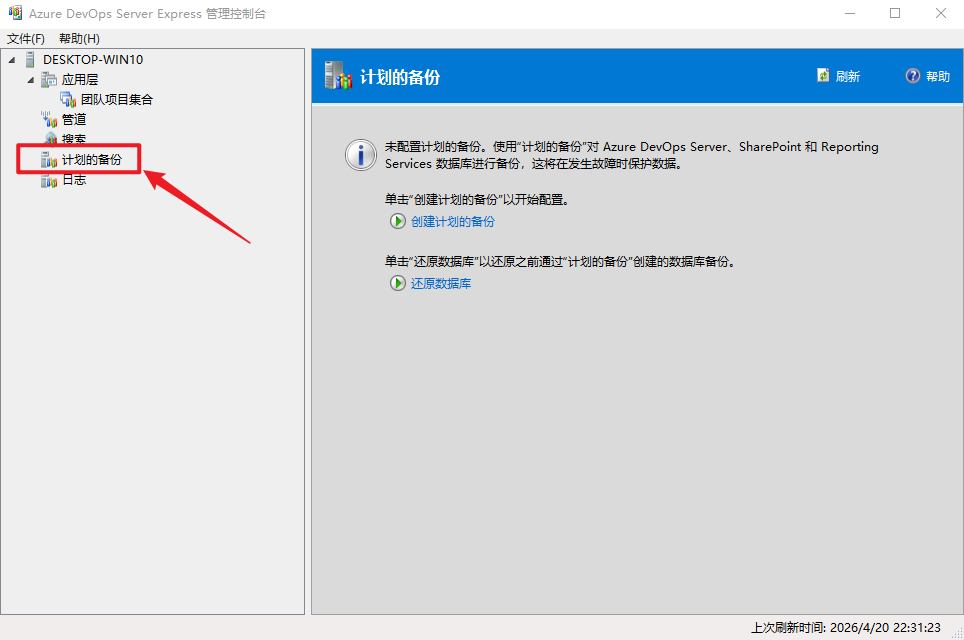
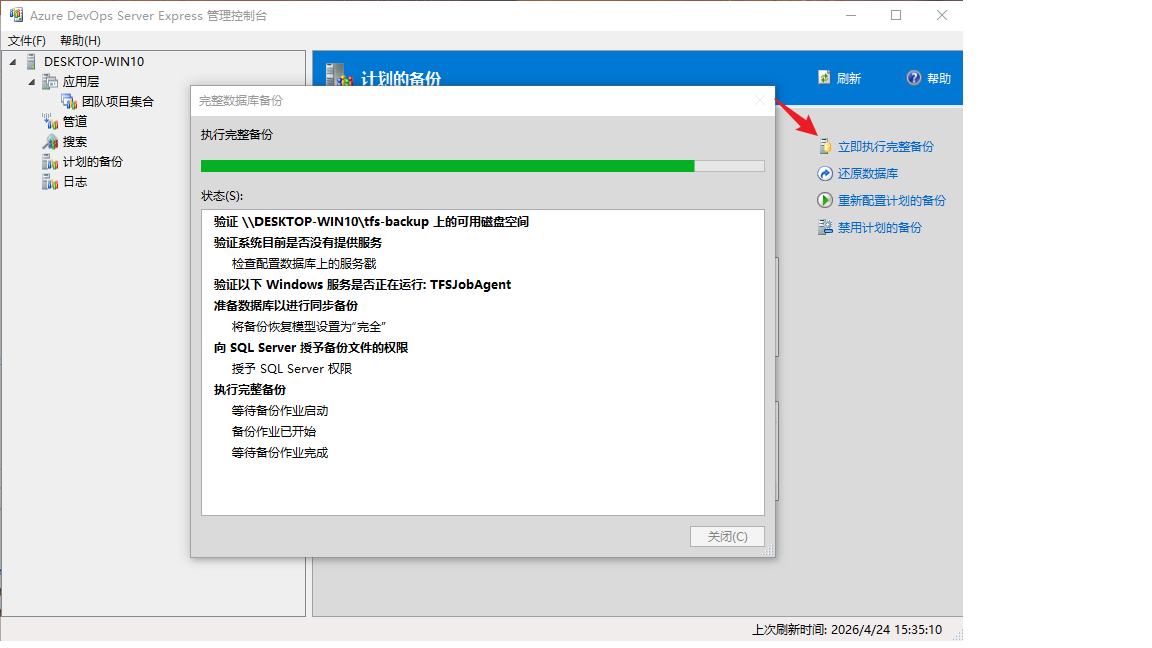
Squashed 'devops-migration/' changes from 8423ca4..903cff9
903cff9 Enhance Azure DevOps Server migration documentation with detailed steps and scripts; add supporting images for clarity.

git-subtree-dir: devops-migration
git-subtree-split: 903cff93f00faa4e9fa2267ba0c6909ab0502974

diff --git a/azure-devops-server-migration.md b/azure-devops-server-migration.md
@@ -4,24 +4,65 @@
 
 ### 0. 迁移前准备
 
-1. 使用**专用迁移管理员账号**登录（不要使用将被迁移的账号）。
+1. 使用**专用迁移管理员账号**登录（不要使用“将被迁移的账号”）。
 2. 确认该账号具备以下权限：
-	- Azure DevOps Server：Team Foundation Administrators、Admin Console Users
-	- SQL Server：`sysadmin`
-	- 服务器本地：Administrators
+	- Azure DevOps Server：`Team Foundation Administrators`（server-level）、Admin Console Users
+	![devops-admin](./images/devops-admin.png)
+	- SQL Server：`sysadmin`（server-level）
+	![db-admin](./images/db-server-admin.png)
+	- 服务器本地（AT）：`Administrators`（lusrmgr.msc -> 本地用户和组/Administrators）
+	![local-admin](./images/local-admin.png)
+
 3. 梳理身份映射表（建议提前做成表格）：
 	- 旧域账号 -> 新域账号
 	- 服务账号（AT、Reporting、Proxy）
 	- 同名可批量迁移账号、异名需单独迁移账号（本次环境不存在异名账号）
     
-进入到 AT 的安装目录，%ProgramFiles%/Azure DevOps Server 2022/Tools（实际可从 administration console 的目录查看），以管理员方式执行以下命令：
-```bat
-TFSConfig Identities
-```
-![tfs-config](./images/TfsConfig-Identities.png)
+	进入到 AT 的安装目录，%ProgramFiles%/Azure DevOps Server 2022/Tools（实际可从 administration console 的文件目录查看），以管理员方式执行以下命令：
+	```bat
+	TFSConfig Identities
+	```
+	![tfs-config](./images/TfsConfig-Identities.png)
 
-4. 将“需要迁移”的账号从应用层服务器本地 Administrators 组中移除，避免自动注入导致冲突。（注意：若有多个 AT，则需在每个实例上操作）
-5. 检查输出中是否存在目标域同名/冲突身份，提前处理冲突后再继续。
+	以下是将输出直接导出成 csv 文件的脚本（可以直接保存为 ps1 文件并置于 AT 中执行）
+	```ps1
+	$txtFile = "D:\temp\tfs_identities.txt"
+	$csvFile = "D:\temp\tfs_identities.csv"
+
+	$txtDir = Split-Path -Path $txtFile -Parent
+	$csvDir = Split-Path -Path $csvFile -Parent
+
+	if ($txtDir -and -not (Test-Path -LiteralPath $txtDir)) {
+		New-Item -ItemType Directory -Path $txtDir -Force | Out-Null
+	}
+
+	if ($csvDir -and -not (Test-Path -LiteralPath $csvDir)) {
+		New-Item -ItemType Directory -Path $csvDir -Force | Out-Null
+	}
+
+	cmd /c ('"./TFSConfig.exe" Identities > "{0}"' -f $txtFile)
+
+	# 读取并解析
+	$lines = Get-Content $txtFile
+
+	$result = foreach ($line in $lines) {
+		$parts = $line -split '\s{2,}'
+		if ($parts.Count -ge 3 -and $parts[1] -match '^(True|False)$' -and $parts[2] -match '^(True|False)$') {
+			[PSCustomObject]@{
+				Account = $parts[0].Trim()
+				ExistsInWindows = $parts[1].Trim()
+				Matched         = $parts[2].Trim()
+			}
+		}
+	}
+
+	# 导出 CSV
+	$result | Export-Csv -Path $csvFile -NoTypeInformation -Encoding UTF8
+
+	Write-Host "CSV generated: $csvFile"
+	```
+
+4. （重要）将“需要迁移”的账号从应用层服务器本地 Administrators 组中移除，避免自动注入导致冲突。（注意：若有多个 AT，则需在每个实例上操作）
 
 ---
 
@@ -63,41 +104,29 @@ TFSServiceControl quiesce
 
 1. 在应用层服务器管理员命令行进入 `Tools` 目录。
 2. 先迁移服务账号 SID（示例）：
-
-```bat
-TFSConfig Identities /change /fromdomain:OldDomain /todomain:NewDomain /account:OldTFSServiceAccount /toaccount:NewTFSServiceAccount
-```
-
+	```bat
+	TFSConfig Identities /change /fromdomain:OldDomain /todomain:NewDomain /account:OldTFSServiceAccount /toaccount:NewTFSServiceAccount
+	```
 3. 对“旧域与新域**同名**账号”执行批量映射：
-
-```bat
-TFSConfig Identities /change /fromdomain:OldDomain /todomain:NewDomain
-```
-
+	```bat
+	TFSConfig Identities /change /fromdomain:OldDomain /todomain:NewDomain
+	```
 4. 对“新旧域账号名不同”的身份逐个映射：
-
-```bat
-TFSConfig Identities /change /fromdomain:OldDomain /todomain:NewDomain /account:OldUser /toaccount:NewUser
-```
-
+	```bat
+	TFSConfig Identities /change /fromdomain:OldDomain /todomain:NewDomain /account:OldUser /toaccount:NewUser
+	```
 5. 更新应用层服务账号密码：
-
-```bat
-TFSConfig Accounts /change /AccountType:ApplicationTier /account:NewDomain\SvcAdo /password:***
-```
-
+	```bat
+	TFSConfig Accounts /change /AccountType:ApplicationTier /account:NewDomain\SvcAdo /password:***
+	```
 6. 如使用 Reporting，更新报表数据源账号：
-
-```bat
-TFSConfig Accounts /change /AccountType:ReportingDataSource /account:NewDomain\SvcRpt /password:***
-```
-
+	```bat
+	TFSConfig Accounts /change /AccountType:ReportingDataSource /account:NewDomain\SvcRpt /password:***
+	```
 7. 如使用 Proxy，更新 Proxy 服务账号：
-
-```bat
-TFSConfig Accounts /change /AccountType:Proxy /account:NewDomain\SvcProxy /password:***
-```
-
+	```bat
+	TFSConfig Accounts /change /AccountType:Proxy /account:NewDomain\SvcProxy /password:***
+	```
 8. 对于无效账号（在老域中有但可能离职、失效的账号，在新域中不存在的账号），需要从 Security Scope 中移除（若不及时清除，即使迁移成功，也会造成性能逐渐恶化）
 
 > 注意：系统账号（如 `Network Service`）不能按普通账号直接迁移，需按官方 Identities Command 说明采用分阶段处理。
@@ -105,6 +134,8 @@ TFSConfig Accounts /change /AccountType:Proxy /account:NewDomain\SvcProxy /passw
 ---
 
 ### 5. 配置 Reporting/Analysis（仅启用报表时）
+
+> 客户未使用 Reporting/Analysis
 
 1. 打开 Azure DevOps Server 管理控制台 -> Reporting。
 2. 若报表服务器名称变化，更新 3 个页签中的服务器地址与账号。
@@ -124,11 +155,9 @@ TFSConfig Accounts /change /AccountType:Proxy /account:NewDomain\SvcProxy /passw
 
 1. 在各个 AT 服务器管理员命令行进入 `Tools` 目录。
 2. 执行：
-
-```bat
-TFSServiceControl unquiesce
-```
-
+	```bat
+	TFSServiceControl unquiesce
+	```
 3. 确认服务恢复正常。
 
 ---
@@ -148,30 +177,43 @@ TFSServiceControl unquiesce
 > 触发条件建议：Portal 无法访问、关键集合不可用、身份映射大量失败且短时间无法修复。
 
 1. 在所有 AT 上再次执行停服，避免产生新的写入：
-
-```bat
-TFSServiceControl quiesce
-```
-
+	```bat
+	TFSServiceControl quiesce
+	```
 2. 在 SQL Server 上停止与 Azure DevOps 相关的连接活动（必要时临时停止 AT 服务）。
 3. 使用步骤 #2 生成的 Full Backup，按原库名还原所有 Azure DevOps 数据库（配置库、集合库、仓库相关库）。
 4. 如启用了 Reporting，同步还原 Reporting 相关数据库，并在 SSRS 中恢复加密密钥。
 5. 确认 SQL 还原完成且数据库状态为 Online，账号权限恢复到迁移前配置。
 6. 在 AT 服务器打开 Azure DevOps 管理控制台，确认实例、集合、服务连接信息正常。
 7. 执行服务恢复：
-
-```bat
-TFSServiceControl unquiesce
-```
+	```bat
+	TFSServiceControl unquiesce
+	```
 
 8. 执行最小化业务验证：Portal 登录、任一项目读写、构建队列、工作项查询。
 9. 宣布回退完成，并冻结本次迁移变更，保留日志用于下一窗口复盘。
 
 ---
 
-## 常见风险与控制
+## 常见风险与控制&前期探查的坑
 
 1. 不要把“硬件迁移”和“域迁移”混做一次变更。
 2. 目标域若已有同名身份记录，`TFSConfig Identities` 可能失败；必须先清理冲突。
 3. 迁移窗口内必须保持源环境冻结（`quiesce` 到 `unquiesce` 期间禁止写入）。
+4. （坑）用同名情况下的命令（`TFSConfig Identities /change /fromdomain:OldDomain /todomain:NewDomain`）不管用，且执行之后无法再使用单条remap的命令。所以建议一开始就用单条remap的命令
+5. （注意点）Migration 之后，ADO Server 重启之后，work item owner 之类的地方 user 信息会暂时性出现 inactive identity 的情况。一段时间之后（可能10分钟）才会恢复正常。（猜测可能是后台在处理 sync）
 
+## 时间窗口
+
+当数据库比较大的情况下，主要的时间会花在数据库的备份/还原上（以下仅为参考）
+
+| 阶段 | 耗时 |
+| --- | --- |
+| DB Backup + Restore | 2-6h |
+| 域账号映射 | 0.5h |
+| 服务停启 + 配置 | 0.5-1h |
+| 验证 & Identity sync | 0.5h |
+
+数据库的备份时间，可以从历史的备份动作查看
+
+![backup-time](./images/devops-backup-log.png)
